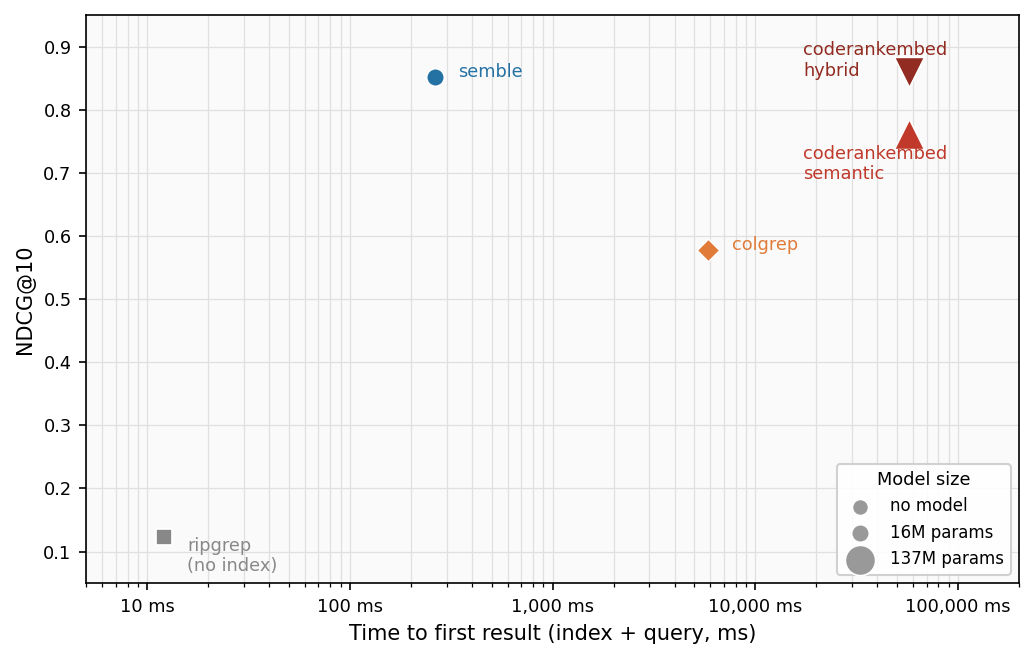
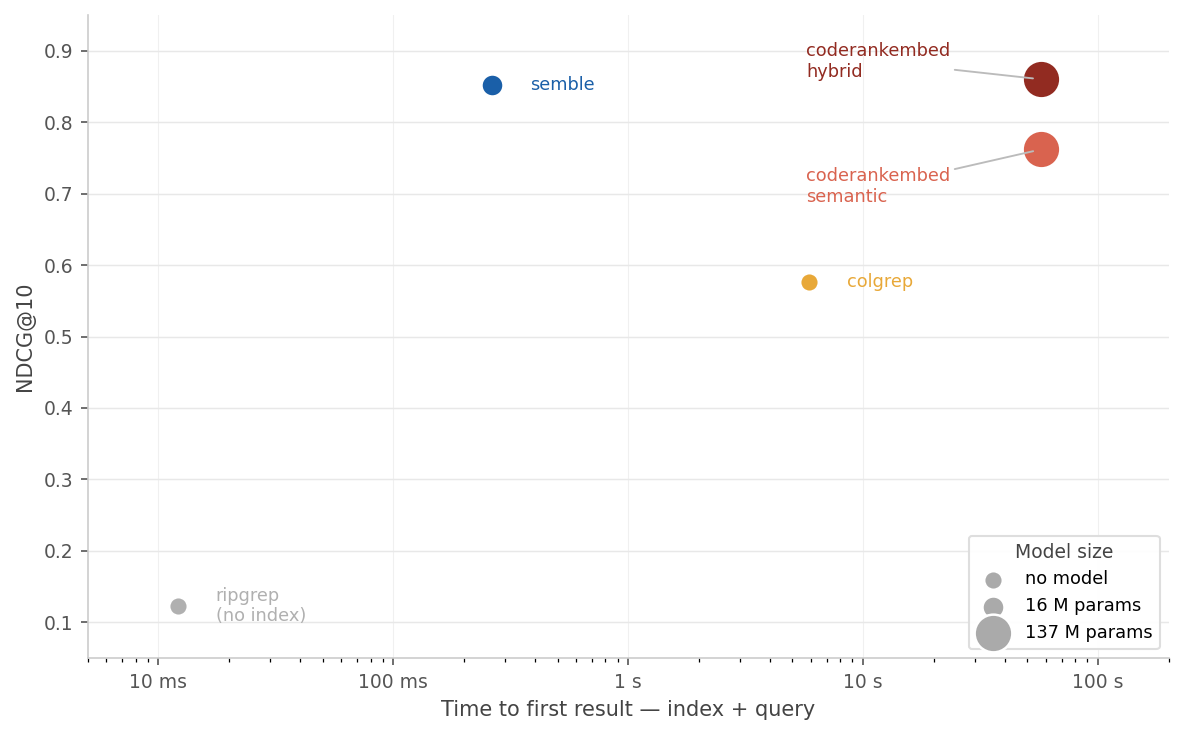
style: Polish scatter plot — all circles, cleaner colors, fix axis ticks

diff --git a/benchmarks/plot.py b/benchmarks/plot.py
@@ -1,10 +1,9 @@
-import json
+import sys
 from pathlib import Path
 from typing import TypedDict
 
 import matplotlib.pyplot as plt
 import matplotlib.ticker as ticker
-import numpy as np
 
 _RESULTS_DIR = Path(__file__).parent / "results"
 
@@ -17,7 +16,6 @@ class _Method(TypedDict):
     index_ms: float
     query_p50_ms: float
     color: str
-    marker: str
     params_m: float
 
 
@@ -27,8 +25,7 @@ _METHODS: list[_Method] = [
         "ndcg10": 0.123,
         "index_ms": 0.0,
         "query_p50_ms": 12.08,
-        "color": "#888888",
-        "marker": "s",
+        "color": "#b0b0b0",
         "params_m": 0,
     },
     {
@@ -36,8 +33,7 @@ _METHODS: list[_Method] = [
         "ndcg10": 0.577,
         "index_ms": 5750.6,
         "query_p50_ms": 123.83,
-        "color": "#e07b39",
-        "marker": "D",
+        "color": "#e8a838",
         "params_m": 0,
     },
     {
@@ -45,8 +41,7 @@ _METHODS: list[_Method] = [
         "ndcg10": 0.762,
         "index_ms": 57269.4,
         "query_p50_ms": 16.27,
-        "color": "#c0392b",
-        "marker": "^",
+        "color": "#d9634f",
         "params_m": 137,
     },
     {
@@ -55,7 +50,6 @@ _METHODS: list[_Method] = [
         "index_ms": 57269.4,
         "query_p50_ms": 16.27,
         "color": "#922b21",
-        "marker": "v",
         "params_m": 137,
     },
     {
@@ -63,34 +57,48 @@ _METHODS: list[_Method] = [
         "ndcg10": 0.852,
         "index_ms": 262.6,
         "query_p50_ms": 1.49,
-        "color": "#2471a3",
-        "marker": "o",
+        "color": "#1a5fa8",
         "params_m": 16,
     },
 ]
 
-# Label offsets (x_factor, y_offset) to avoid overlaps
-_OFFSETS: dict[str, tuple[float, float]] = {
-    "ripgrep\n(no index)": (1.3, -0.03),
-    "colgrep": (1.3, 0.008),
-    "coderankembed\nsemantic": (0.3, -0.048),
-    "coderankembed\nhybrid": (0.3, 0.018),
-    "semble": (1.3, 0.008),
+# (xytext_x_factor, xytext_y, ha, va, use_arrow)
+_LABEL_CONFIG: dict[str, tuple[float, float, str, str, bool]] = {
+    "ripgrep\n(no index)": (1.45, 0.123, "left", "center", False),
+    "colgrep": (1.45, 0.577, "left", "center", False),
+    "coderankembed\nsemantic": (0.10, 0.710, "left", "center", True),
+    "coderankembed\nhybrid": (0.10, 0.885, "left", "center", True),
+    "semble": (1.45, 0.852, "left", "center", False),
 }
 
 
-def _make_plot(out_path: Path) -> None:
-    fig, ax = plt.subplots(figsize=(7, 4.5))
+def _marker_size(params_m: float) -> float:
+    """Return scatter marker area scaling linearly with parameter count."""
+    return max(80.0, 28.0 * params_m**0.5)
 
-    ax.set_facecolor("#fafafa")
+
+def _format_ms(v: float, _: object) -> str:
+    """Format milliseconds as a human-readable time string."""
+    if v >= 1_000:
+        return f"{v / 1_000:.0f} s"
+    return f"{v:.0f} ms"
+
+
+def _make_plot(out_path: Path) -> None:
+    fig, ax = plt.subplots(figsize=(8, 5))
+
     fig.patch.set_facecolor("white")
-    ax.grid(True, which="both", color="#e0e0e0", linewidth=0.6, zorder=0)
+    ax.set_facecolor("white")
+
+    ax.grid(axis="y", color="#e8e8e8", linewidth=0.7, zorder=0)
+    ax.grid(axis="x", color="#f0f0f0", linewidth=0.5, zorder=0)
     ax.set_axisbelow(True)
 
-    # Marker size scales with sqrt(params) so the area scales linearly with params.
-    # Floor at 60 so zero-param tools are still visible.
-    def _marker_size(params_m: float) -> float:
-        return max(60.0, 18.0 * params_m**0.5)
+    # Remove top and right spines
+    ax.spines["top"].set_visible(False)
+    ax.spines["right"].set_visible(False)
+    ax.spines["left"].set_color("#cccccc")
+    ax.spines["bottom"].set_color("#cccccc")
 
     for m in _METHODS:
         x = m["index_ms"] + m["query_p50_ms"]
@@ -100,51 +108,66 @@ def _make_plot(out_path: Path) -> None:
             y,
             s=_marker_size(m["params_m"]),
             color=m["color"],
-            marker=m["marker"],
+            marker="o",
             zorder=3,
-            linewidths=0.8,
+            linewidths=1.2,
             edgecolors="white",
         )
-        xf, yo = _OFFSETS.get(m["name"], (1.3, 0.0))
+
+        xf, yt, ha, va, use_arrow = _LABEL_CONFIG.get(m["name"], (1.45, y, "left", "center", False))
+        xt = x * xf
+        arrow_props = dict(arrowstyle="-", color="#bbbbbb", lw=0.9, shrinkA=0, shrinkB=4) if use_arrow else None
         ax.annotate(
             m["name"],
             xy=(x, y),
-            xytext=(x * xf, y + yo),
+            xytext=(xt, yt),
             fontsize=8.5,
             color=m["color"],
-            va="center",
+            ha=ha,
+            va=va,
             zorder=4,
+            arrowprops=arrow_props,
         )
 
     ax.set_xscale("log")
-    ax.set_xlabel("Time to first result (index + query, ms)", fontsize=10)
-    ax.set_ylabel("NDCG@10", fontsize=10)
+    ax.set_xlabel("Time to first result — index + query", fontsize=10, color="#444444")
+    ax.set_ylabel("NDCG@10", fontsize=10, color="#444444")
     ax.set_xlim(5, 200_000)
     ax.set_ylim(0.05, 0.95)
 
-    ax.xaxis.set_major_formatter(ticker.FuncFormatter(lambda v, _: f"{v:,.0f} ms"))
-    ax.tick_params(labelsize=8.5)
+    ax.xaxis.set_major_formatter(ticker.FuncFormatter(_format_ms))
+    ax.tick_params(labelsize=9, colors="#555555")
 
-    # Legend for marker sizes
-    legend_params = [(0, "no model"), (16, "16M params"), (137, "137M params")]
+    # Model-size legend
+    legend_entries = [(0, "no model"), (16, "16 M params"), (137, "137 M params")]
     handles = [
         plt.scatter(
             [],
             [],
             s=_marker_size(p),
-            color="#999999",
+            color="#aaaaaa",
             marker="o",
             label=label,
             edgecolors="white",
-            linewidths=0.8,
+            linewidths=1.2,
         )
-        for p, label in legend_params
+        for p, label in legend_entries
     ]
-    ax.legend(handles=handles, title="Model size", fontsize=8, title_fontsize=8.5, loc="lower right", framealpha=0.9)
+    legend = ax.legend(
+        handles=handles,
+        title="Model size",
+        fontsize=8.5,
+        title_fontsize=9,
+        loc="lower right",
+        frameon=True,
+        framealpha=0.95,
+        edgecolor="#dddddd",
+    )
+    legend.get_title().set_color("#444444")
 
     fig.tight_layout()
     fig.savefig(out_path, dpi=150, bbox_inches="tight")
-    print(f"Saved to {out_path}", file=__import__("sys").stderr)
+    print(f"Saved to {out_path}", file=sys.stderr)
 
 
 def main() -> None:
